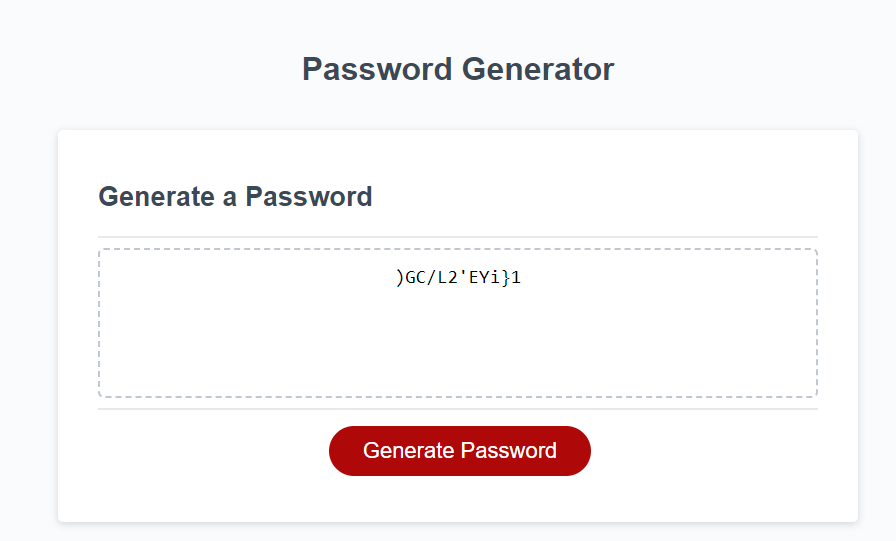
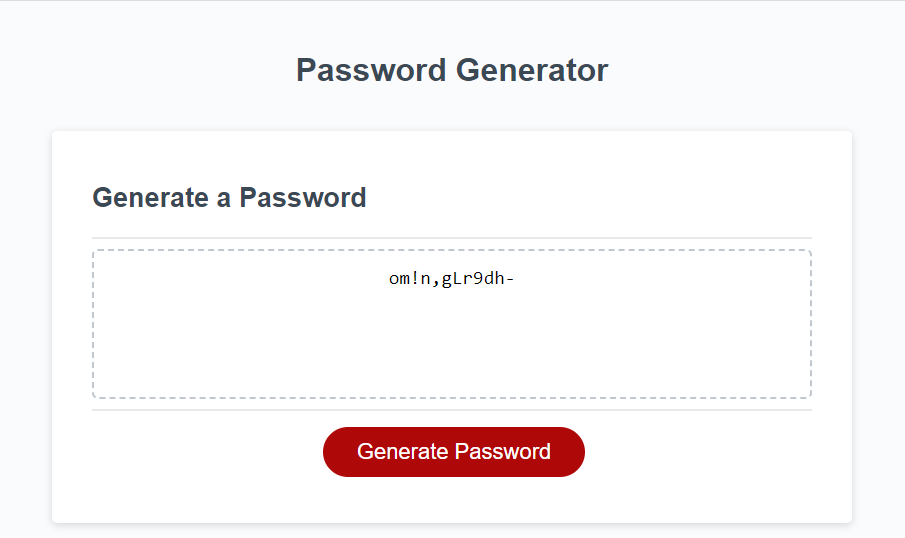
added more images to the readme one for each of the prompts.

diff --git a/README.md b/README.md
@@ -7,9 +7,15 @@ based off the prompts the user gave.  Once the password is created it will popul
 created password.  
 Desktop:   
 Page with password already generated:  
-![The page with the password ")GC/L2'EYi}1" generated.](./assets/images/page_with_password.png)  
+![The page with the password "om!n,gLr9dh-" generated.](./assets/images/page_with_password.png) 
 Asking the first prompt:  
 ![First prompt which is asking the user to "How many characters would you like your password to contain.  Please input a number between 8 and 128".](./assets/images/first_prompt.png)  
+Rest of the prompts:  
+![Alert box asking: Would you like lowercase characters?](./assets/images/second_prompt.png)  
+![Alert box asking: Would you like uppercase characters?](./assets/images/third_prompt.png)  
+![Alert box asking: Would you like numbers?](./assets/images/fourth_prompt.png)  
+![Alert box asking: Would you like special Characters?](./assets/images/fifth_prompt.png)  
+![Alert box asking to confirm the selections you have chosen](./assets/images/confirmation.png)  
 
 ## How to Get to the Page
 The link to the repo for this project is located at: https://github.com/blanchardt/Trevors-Random-Password-Generator   
